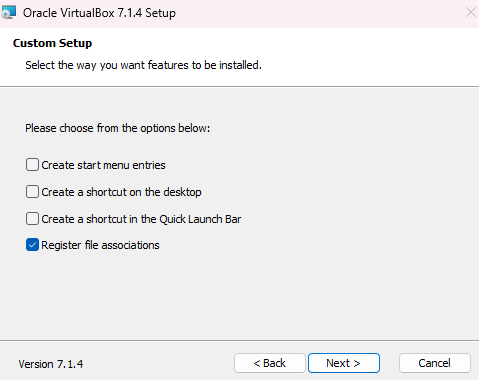
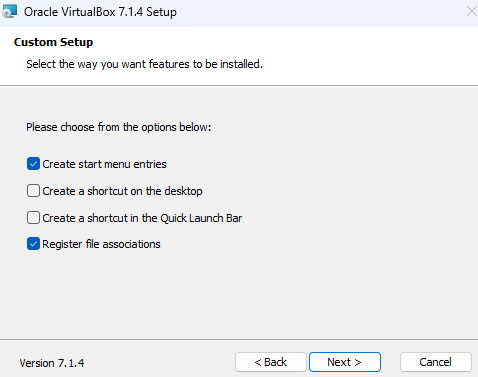
feat: add windows setup

diff --git a/projects/home-lab/home-lab.md b/projects/home-lab/home-lab.md
@@ -33,6 +33,43 @@ VirtualBox is a general-purpose virtualization software which serves to isolate 
 
     Go to: [https://aka.ms/vs/17/release/vc_redist.x64.exe](https://aka.ms/vs/17/release/vc_redist.x64.exe) and install it by clicking next in every step.
 
-5. Install VirtualBox and make sure to mark `Register file associations` in order to open specific VirtualBox file types within the application.
+5. Install VirtualBox and make sure to mark `Create start menu entries` and `Register file associations` in order to find the executable and open specific VirtualBox file types within the application.
 
     ![VBox Types](./images/home-lab-05.png)
+
+## Windows Setup
+Windows is the most recent Operating System developed by Microsoft. This is the host machine which will be targeted by Kali Linux.
+
+1. Download the Windows Installation Media found at: [https://www.microsoft.com/en-us/software-download/windows11](https://www.microsoft.com/en-us/software-download/windows11).
+
+2. During the install process, at the `Choose which media to use` section, select `ISO file`.
+
+    ![VBox Types](./images/home-lab-06.png)
+
+3. In VirtualBox, click on New and select the `Windows.iso` image.
+
+    ![VBox Types](./images/home-lab-07.png)
+
+4. At the Hardware section, follow the minimum system requirements from Microsoft: [https://www.microsoft.com/en-us/windows/windows-11-specifications](https://www.microsoft.com/en-us/windows/windows-11-specifications).
+
+    ![VBox Types](./images/home-lab-08.png)
+
+    Also, set the recommended storage in the Virtual Hard Disk section.
+
+    ![VBox Types](./images/home-lab-09.png)
+
+    **Note:** In this case, we want that the 64 GB of storage is consumed over the time, so uncheck `Pre-allocate Full Size`.
+
+5. Check the summary and proceed to finish the creation.
+
+    ![VBox Types](./images/home-lab-10.png)
+
+6. The machine is ready to run, so click on `Start`.
+
+7. During the configuration process, make sure to select `I don't have a product key`.
+
+    ![VBox Types](./images/home-lab-11.png)
+
+    In addition, select Windows 11 Pro, because of the `RDP` feature explained here: [https://learn.microsoft.com/en-us/windows-server/remote/remote-desktop-services/clients/remote-desktop-supported-config](https://learn.microsoft.com/en-us/windows-server/remote/remote-desktop-services/clients/remote-desktop-supported-config).
+
+    ![VBox Types](./images/home-lab-12.png)
